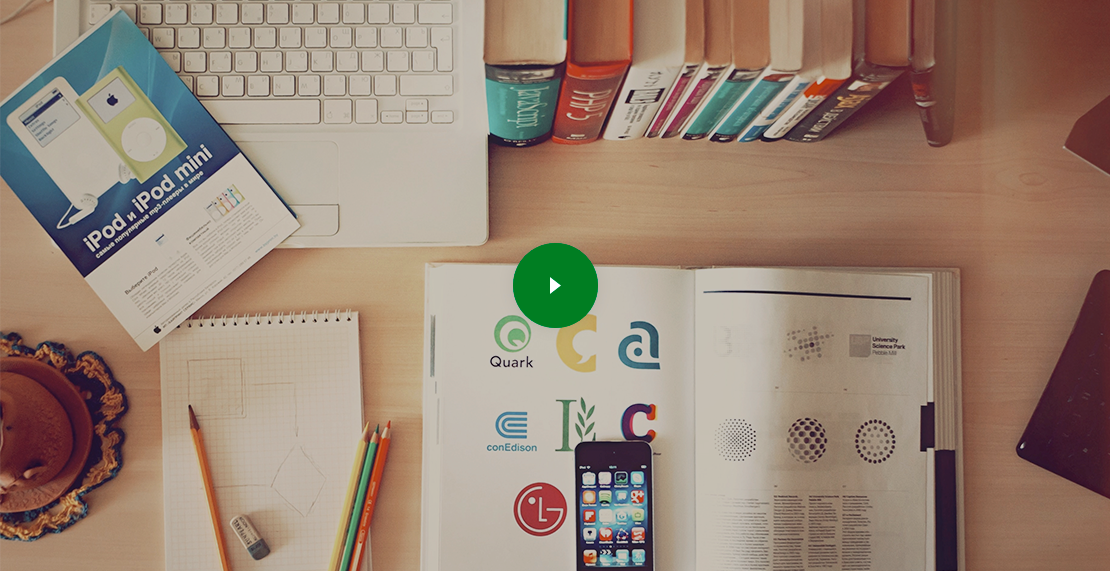
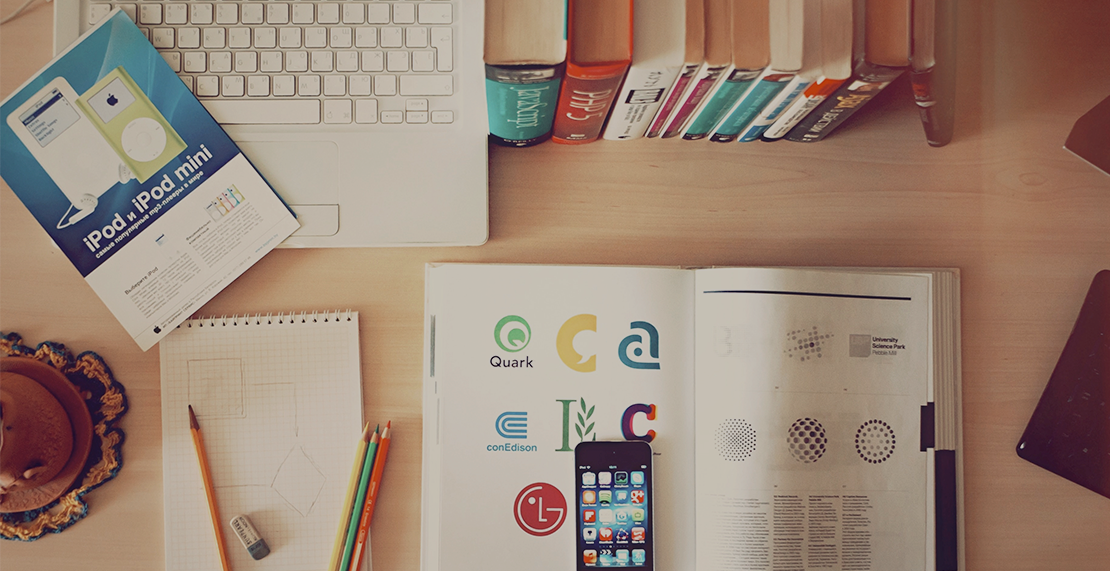
index.html, добавлены некоторые эффекты на элементах

Changed region(s): [[0.4595, 0.4168, 0.5514, 0.5954]]

diff --git a/index.html b/index.html
@@ -104,16 +104,41 @@
                 </div>
             </div>
         </section>
+        
         <section class="container-fluid main_works">
             <div class="row works_photos">
-                <img src="img/square_pic_1.png" alt="" class="wp_img">
-                <img src="img/square_pic_2.png" alt="" class="wp_img">
-                <img src="img/square_pic_3.png" alt="" class="wp_img">
-                <img src="img/square_pic_4.png" alt="" class="wp_img">
-                <img src="img/square_pic_5.png" alt="" class="wp_img">
-                <img src="img/square_pic_6.png" alt="" class="wp_img">
-                <img src="img/square_pic_7.png" alt="" class="wp_img">
-                <img src="img/square_pic_8.png" alt="" class="wp_img">
+                <div class="wp_square">
+                    <img src="img/square_hover.png" alt="" class="square_hover">
+                    <img src="img/square_pic_1.png" alt="" class="wp_img">
+                </div>
+                <div class="wp_square">
+                    <img src="img/square_hover.png" alt="" class="square_hover">
+                    <img src="img/square_pic_2.png" alt="" class="wp_img">
+                </div>
+                <div class="wp_square">
+                    <img src="img/square_hover.png" alt="" class="square_hover">
+                    <img src="img/square_pic_3.png" alt="" class="wp_img">
+                </div>
+                <div class="wp_square">
+                    <img src="img/square_hover.png" alt="" class="square_hover">
+                    <img src="img/square_pic_4.png" alt="" class="wp_img">
+                </div>
+                <div class="wp_square">
+                    <img src="img/square_hover.png" alt="" class="square_hover">
+                    <img src="img/square_pic_5.png" alt="" class="wp_img">
+                </div>
+                <div class="wp_square">
+                    <img src="img/square_hover.png" alt="" class="square_hover">
+                    <img src="img/square_pic_6.png" alt="" class="wp_img">
+                </div>
+                <div class="wp_square">
+                    <img src="img/square_hover.png" alt="" class="square_hover">
+                    <img src="img/square_pic_7.png" alt="" class="wp_img">
+                </div>
+                <div class="wp_square">
+                    <img src="img/square_hover.png" alt="" class="square_hover">
+                    <img src="img/square_pic_8.png" alt="" class="wp_img">
+                </div>
             </div>
             <div class="row works_load">
                 <p>
@@ -126,8 +151,11 @@
             <h2 class="video_title">Out Work Process</h2>
             <div class="video_description col-8">Was years it seasons was there form he in in them together over that,
                 third sixth gathered female creeping bearing behold years.</div>
-            <video src="video/Что такое CSS.mp4" controls preload="auto" poster="img/preview.png"
-                class="video_file"></video>
+            <div class="video_container col-12">
+                <img src="img/player_button.png" class="video_player_button" alt="">
+                <video src="video/Что такое CSS.mp4" controls preload="auto" poster="img/preview.png"
+                    class="video_file"></video>
+            </div>
         </section>
 
         <section class="main_directions">
@@ -182,11 +210,11 @@
         </section>
 
         <article class="quotes">
-            <div id="carouselExampleIndicators" class="carousel slide" data-ride="carousel">
+            <div id="quotes_carousel_controls" class="carousel slide" data-ride="carousel">
                 <ol class="carousel-indicators">
-                    <li data-target="#carouselExampleIndicators" data-slide-to="0" class="active"></li>
-                    <li data-target="#carouselExampleIndicators" data-slide-to="1"></li>
-                    <li data-target="#carouselExampleIndicators" data-slide-to="2"></li>
+                    <li data-target="#quotes_carousel_controls" data-slide-to="0" class="quotes_control_dots active"></li>
+                    <li data-target="#quotes_carousel_controls" data-slide-to="1" class="quotes_control_dots"></li>
+                    <li data-target="#quotes_carousel_controls" data-slide-to="2" class="quotes_control_dots"></li>
                 </ol>
 
                 <div class="container carousel-inner quotes_content">
@@ -263,7 +291,7 @@
             <div class="row footer_content">
                 <div class="footer_title">
                     <h3 class="footer_company_name">Macintosh Design, Inc.</h3>
-                    <p class="footer_company_rights">© 2017 Macintosh. All rights reserved.</p>                    
+                    <p class="footer_company_rights">© 2017 Macintosh. All rights reserved.</p>
                     <p class="footer_company_designer">Designed by Jefry.</p>
                 </div>
 

diff --git a/style/style.css b/style/style.css
@@ -226,8 +226,28 @@ a:hover {
 */
 
 /* =============== section_works =================== */
-.wp_img {
+.wp_square {
+    position: relative;
+    overflow: hidden;
     width: 25%;
+}
+
+.square_hover {
+    position: absolute;
+    top: -30px;
+    left: calc(50% - 24px);
+    opacity: 0;
+    transition: 0.5s;
+}
+
+.wp_img {
+    width: 100%;
+    height: 100%;
+}
+
+.wp_square:hover .square_hover {
+    top: calc(50% - 15px);
+    opacity: 1;
 }
 
 .works_load {
@@ -273,6 +293,28 @@ a:hover {
     line-height: 34px;
     text-align: center;
     margin-bottom: 44px;
+}
+
+.video_container {
+    position: relative;
+}
+
+.video_player_button {
+    position: absolute;
+    top: 50%;
+    left: 50%;
+    width: 0px;
+    height: 0px;
+    opacity: 0;
+    transition: 0.3s;
+}
+
+.video_container:hover .video_player_button{
+    width: 120px;
+    height: 120px;
+    opacity: 1;
+    top: calc(50% - 60px);
+    left: calc(50% - 60px);
 }
 
 .video_file {
@@ -346,6 +388,22 @@ a:hover {
     line-height: 12px;
     margin-top: 40px;
     margin-bottom: 100px;
+}
+
+.carousel-indicators{
+    display: flex;
+    align-items: center;
+}
+
+#quotes_carousel_controls .quotes_control_dots{
+    width: 6px;
+    height: 6px;
+    border-radius: 50%;
+}
+
+#quotes_carousel_controls .quotes_control_dots.active{
+    width: 10px;
+    height: 10px;
 }
 
 /* =============== /section_quote =================== */
@@ -470,7 +528,7 @@ a:hover {
     font-family: var(--f-nunito);
     font-size: 15px;
     color: var(--gray2);
-    line-height: 24px ;
+    line-height: 24px;
 }
 
 .footer_contacts_phone {
